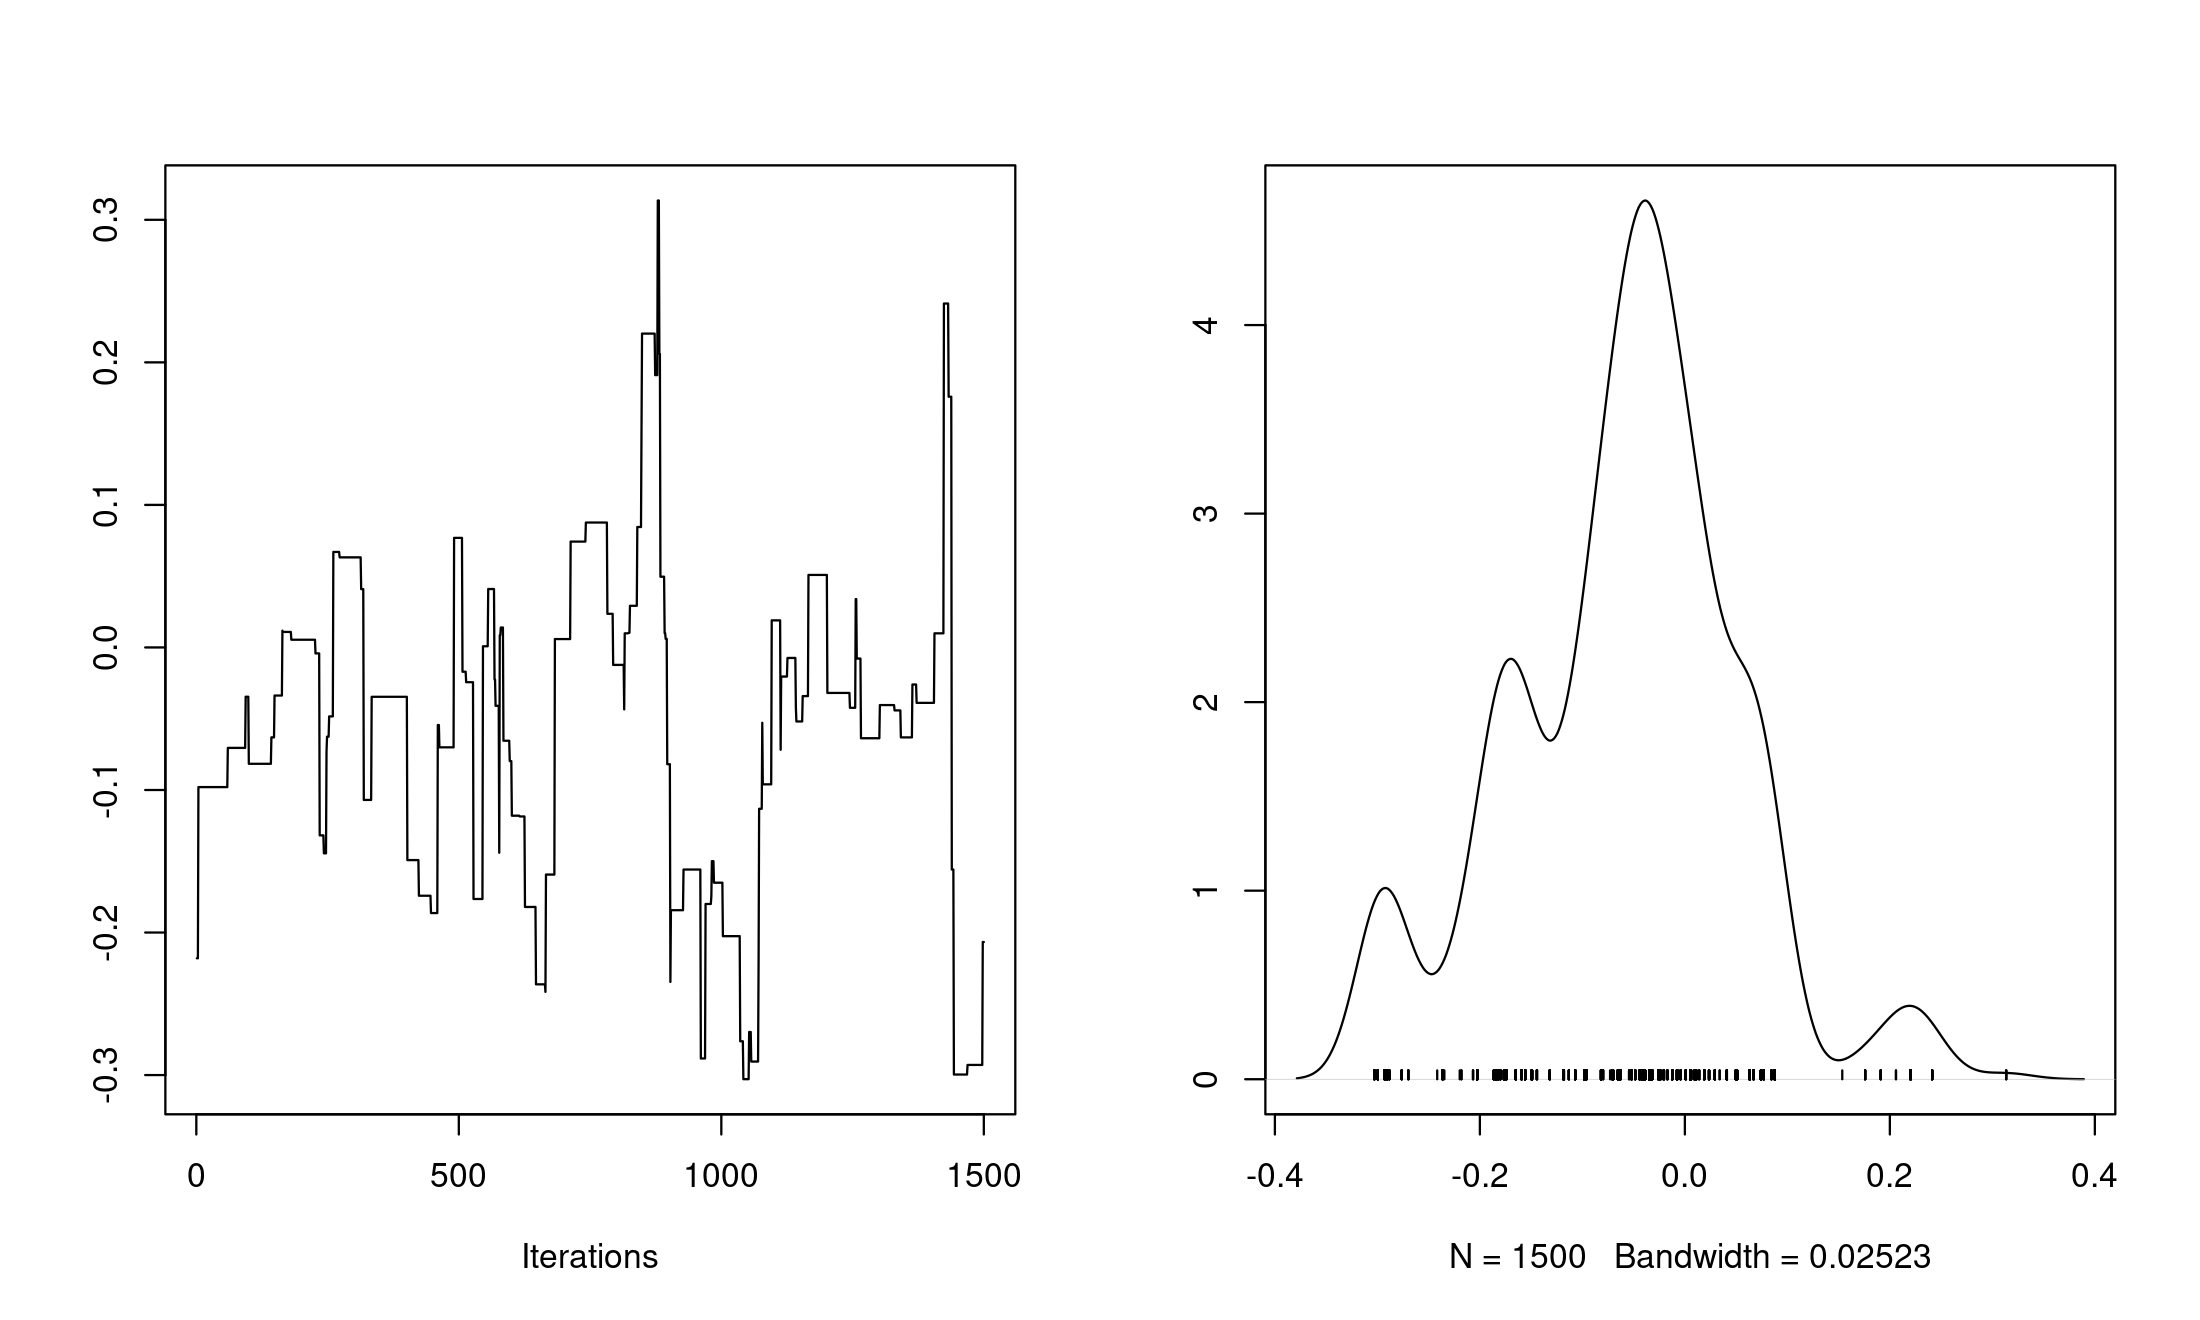
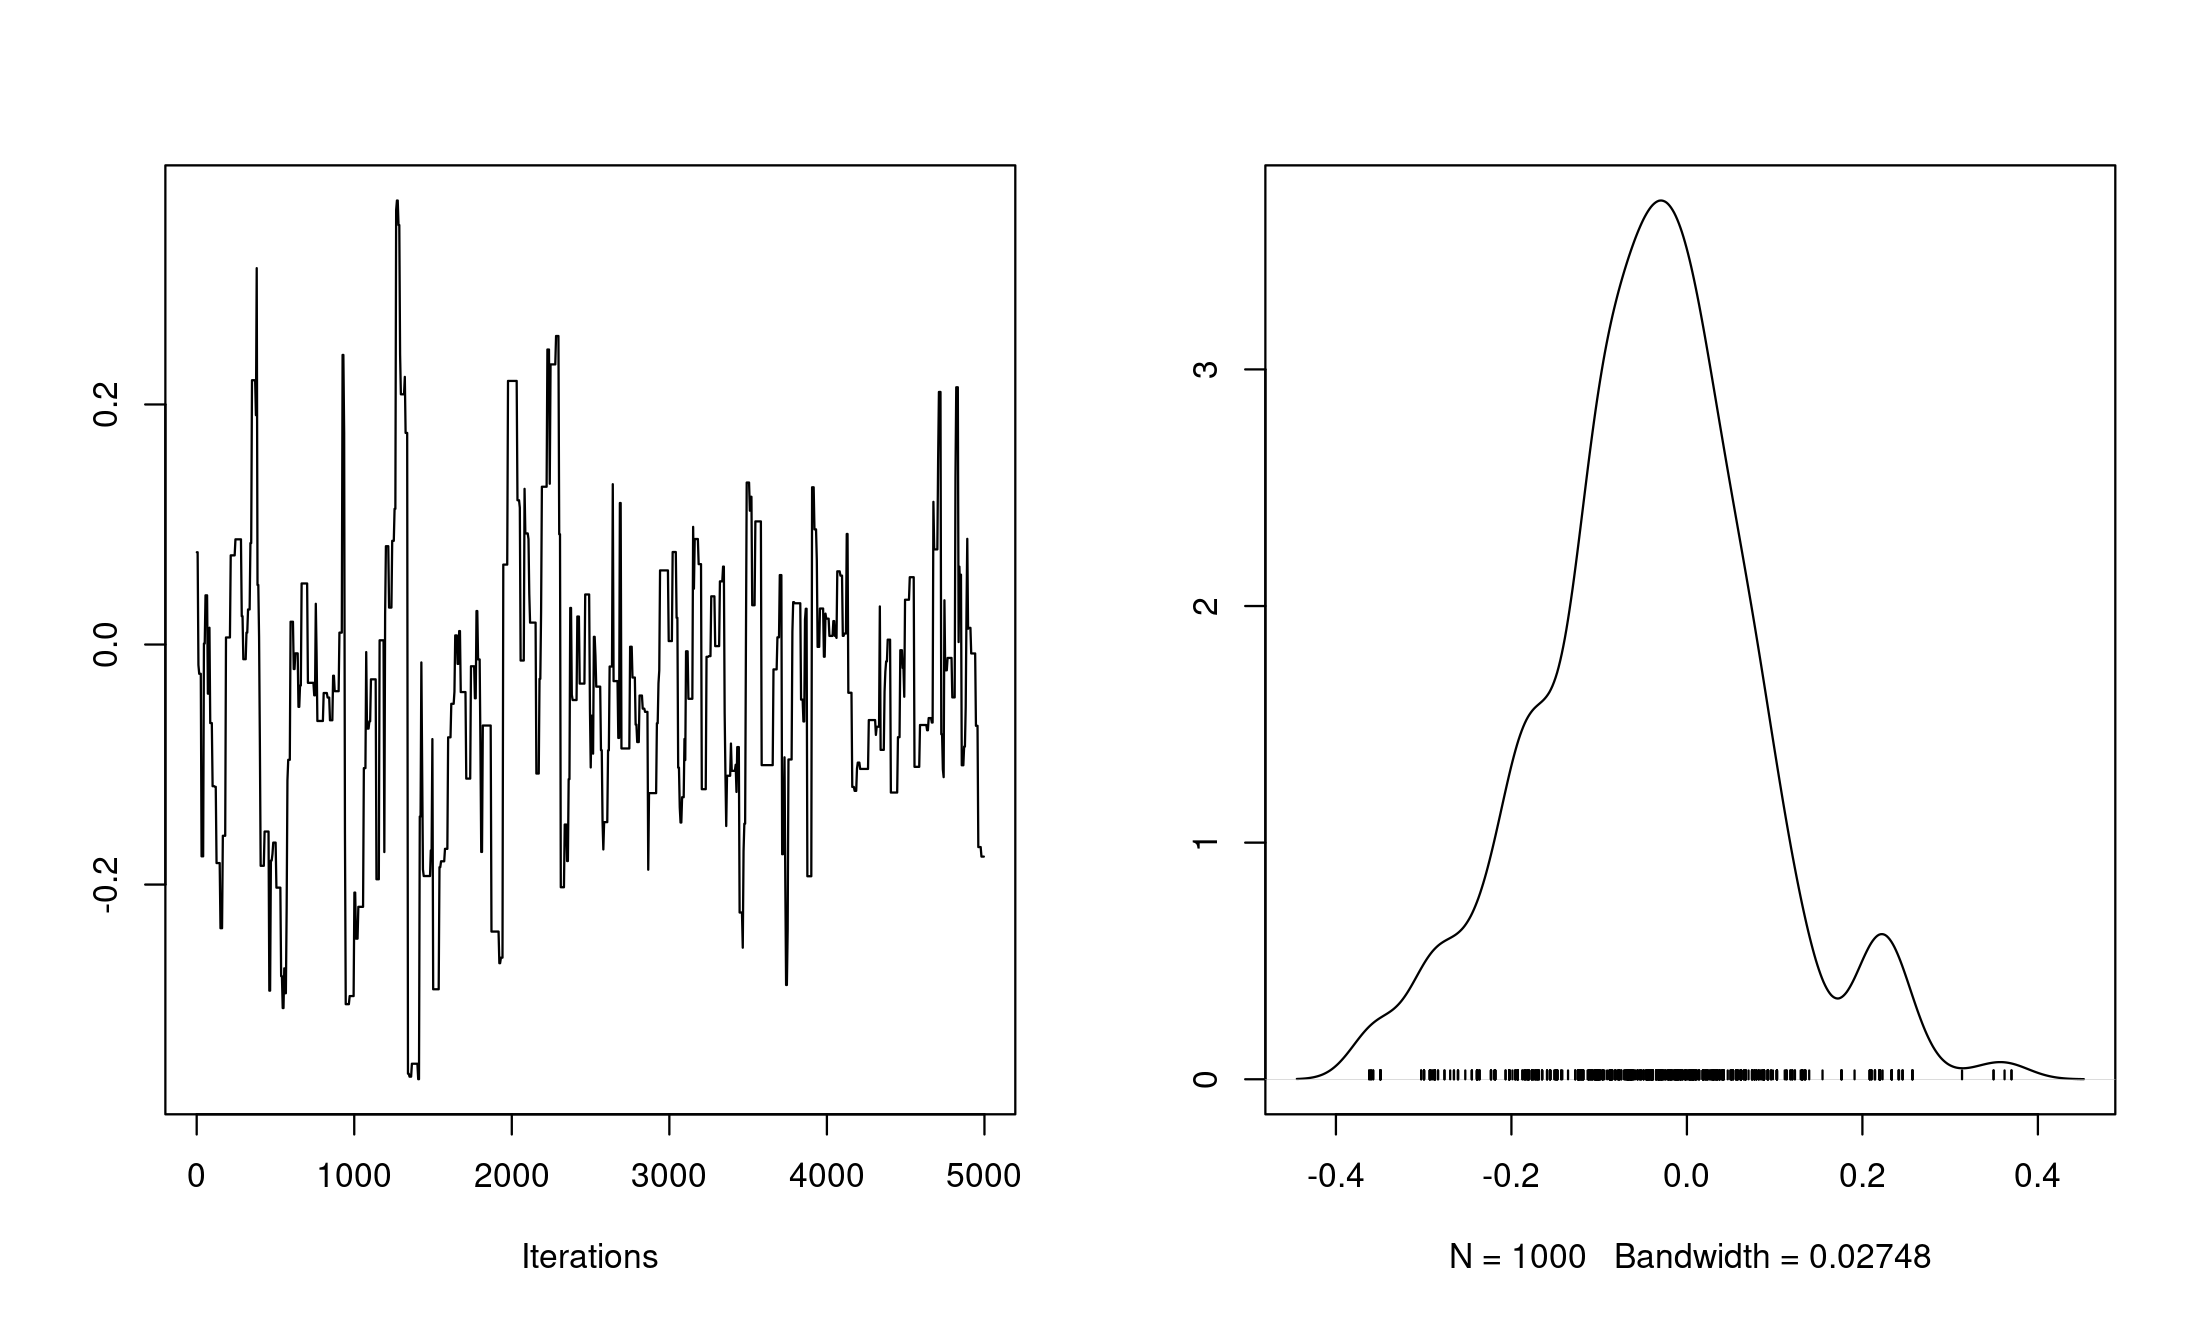
analysis: rerun ex1 mcmc with burn-in and thinning

diff --git a/analysis/manuscript/outputs/tables/manuscript_repro_tracker.md b/analysis/manuscript/outputs/tables/manuscript_repro_tracker.md
@@ -1,24 +1,15 @@
 # Manuscript Reproducibility Tracker
 
-Generated: 2026-03-03 00:57:47
+Generated: 2026-03-03 11:23:21
 Profile: standard
 Seed: 20260302
 
 ## Artifact Status
 
-- [reproduced] `ex2_model_output` -> `analysis/manuscript/outputs/logs/ex2_model_output.txt` (Example 2 model matrix output). Combined trend/seasonal state-space matrix.
-- [reproduced] `ex2_run_summary` -> `analysis/manuscript/outputs/logs/ex2_run_summary.txt` (Example 2 textual outputs). Includes sigma summary and ISVB/LDVB runtime diagnostics.
-- [reproduced] `fig_ex2quant_ldvb` -> `analysis/manuscript/outputs/figures/ex2quant_ldvb.png` (new: fig ex2quant LDVB counterpart). LDVB counterpart of ex2quant with DQLM/exDQLM overlays and gamma histogram.
-- [reproduced] `fig_ex2checks_ldvb` -> `analysis/manuscript/outputs/figures/ex2checks_ldvb.png` (new: fig ex2checks LDVB counterpart). LDVB counterpart of ex2checks using exdqlmDiagnostics.
-- [reproduced] `tab_ex2_df_scan_ldvb` -> `analysis/manuscript/outputs/tables/ex2_df_scan_kl_ldvb.csv` (new: Example 2 discount-factor KL selection (LDVB)). Best pair in this run: (0.90, 0.95)
-- [reproduced] `tab_ex2_diagnostics_ldvb` -> `analysis/manuscript/outputs/tables/ex2_diagnostics_summary_ldvb.csv` (new: Example 2 diagnostic narrative (LDVB)). LDVB counterpart computed with exdqlmDiagnostics.
-- [reproduced] `ex3_run_summary` -> `analysis/manuscript/outputs/logs/ex3_run_summary.txt` (Example 3 textual outputs). Includes lambda optimization table and median.kt.
-- [reproduced] `ex3_run_summary_ldvb` -> `analysis/manuscript/outputs/logs/ex3_run_summary_ldvb.txt` (new: Example 3 LDVB textual outputs). LDVB counterpart including lambda scan and runtime summaries.
-- [reproduced] `fig_ex3quantcomps_ldvb` -> `analysis/manuscript/outputs/figures/ex3quantcomps_ldvb.png` (new: fig ex3quant LDVB counterpart). LDVB counterpart for Example 3 quantile/components plot.
-- [reproduced] `fig_ex3zetapsi_ldvb` -> `analysis/manuscript/outputs/figures/ex3zetapsi_ldvb.png` (new: fig ex3tftheta LDVB counterpart). LDVB transfer-function theta component plots.
-- [reproduced] `fig_ex3forecast_ldvb` -> `analysis/manuscript/outputs/figures/ex3forecast_ldvb.png` (new: fig ex3forecast LDVB counterpart). LDVB counterpart for the 18-step forecast figure.
-- [reproduced] `tab_ex3_lambda_scan_ldvb` -> `analysis/manuscript/outputs/tables/ex3_lambda_scan_kl_ldvb.csv` (new: Example 3 lambda selection output (LDVB)). Best LDVB lambda in this run=0.900
-- [reproduced] `tab_ex3_diagnostics_ldvb` -> `analysis/manuscript/outputs/tables/ex3_diagnostics_summary_ldvb.csv` (new: tab ex3 LDVB counterpart). LDVB counterpart diagnostics table generated with exdqlmDiagnostics.
+- [reproduced] `ex1_model_output` -> `analysis/manuscript/outputs/logs/ex1_model_output.txt` (Example 1 model block). polytrend model object output.
+- [reproduced] `ex1_run_summary` -> `analysis/manuscript/outputs/logs/ex1_run_summary.txt` (Example 1 textual outputs). Includes backend metadata and high-iteration trace diagnostics.
+- [reproduced] `fig_ex1mcmc` -> `analysis/manuscript/outputs/figures/ex1mcmc.png` (fig:ex1mcmc). Trace and density plot using dedicated higher-iteration median MCMC run with thinning=5.
+- [approximate] `tab_ex1_runtime` -> `analysis/manuscript/outputs/tables/ex1_runtime_summary.csv` (Example 1 runtime statements). Runtimes vary by hardware/profile; trace run intentionally uses higher iterations.
 - [reproduced] `tab_api_migration_map` -> `analysis/manuscript/outputs/tables/manuscript_api_migration_map.csv` (global code migration). Maps deprecated manuscript calls to current package API.
 
 ## Notes
@@ -27,9 +18,7 @@ Seed: 20260302
 - api_update: Deprecated y= usage removed from exdqlmPlot/compPlot/exdqlmForecast calls.
 - ldvb_note: Added ISVB vs LDVB comparison figure for dynamic Sunspots example.
 - backend: MCMC runs use C++ backend options exdqlm.use_cpp_mcmc=TRUE and exdqlm.cpp_mcmc_mode='fast'.
-- ex2: Used explicit dlm->exdqlm conversion because as.exdqlm(dlm) errors in current package.
-- ex2_ldvb: Sunspots LDVB KL search best seasonal discount factor=0.95 for this run profile.
-- ex3_ldvb: Best lambda by KL for LDVB in this run profile: 0.900.
-- coverage: Targeted run; requested targets: ex2quant_ldvb, ex2checks_ldvb, ex2tables_ldvb, ex3quantcomps_ldvb, ex3zetapsi_ldvb, ex3forecast_ldvb, ex3tables_ldvb.
+- ex1: Lake Huron uses cached fits; ex1mcmc uses a dedicated high-iteration median MCMC chain.
+- coverage: Targeted run; requested targets: ex1mcmc.
 - timing: Exact runtime printouts in manuscript are historical and expected to differ.
 - scope: Main manuscript .tex was not modified; all updates are isolated under analysis/manuscript.
